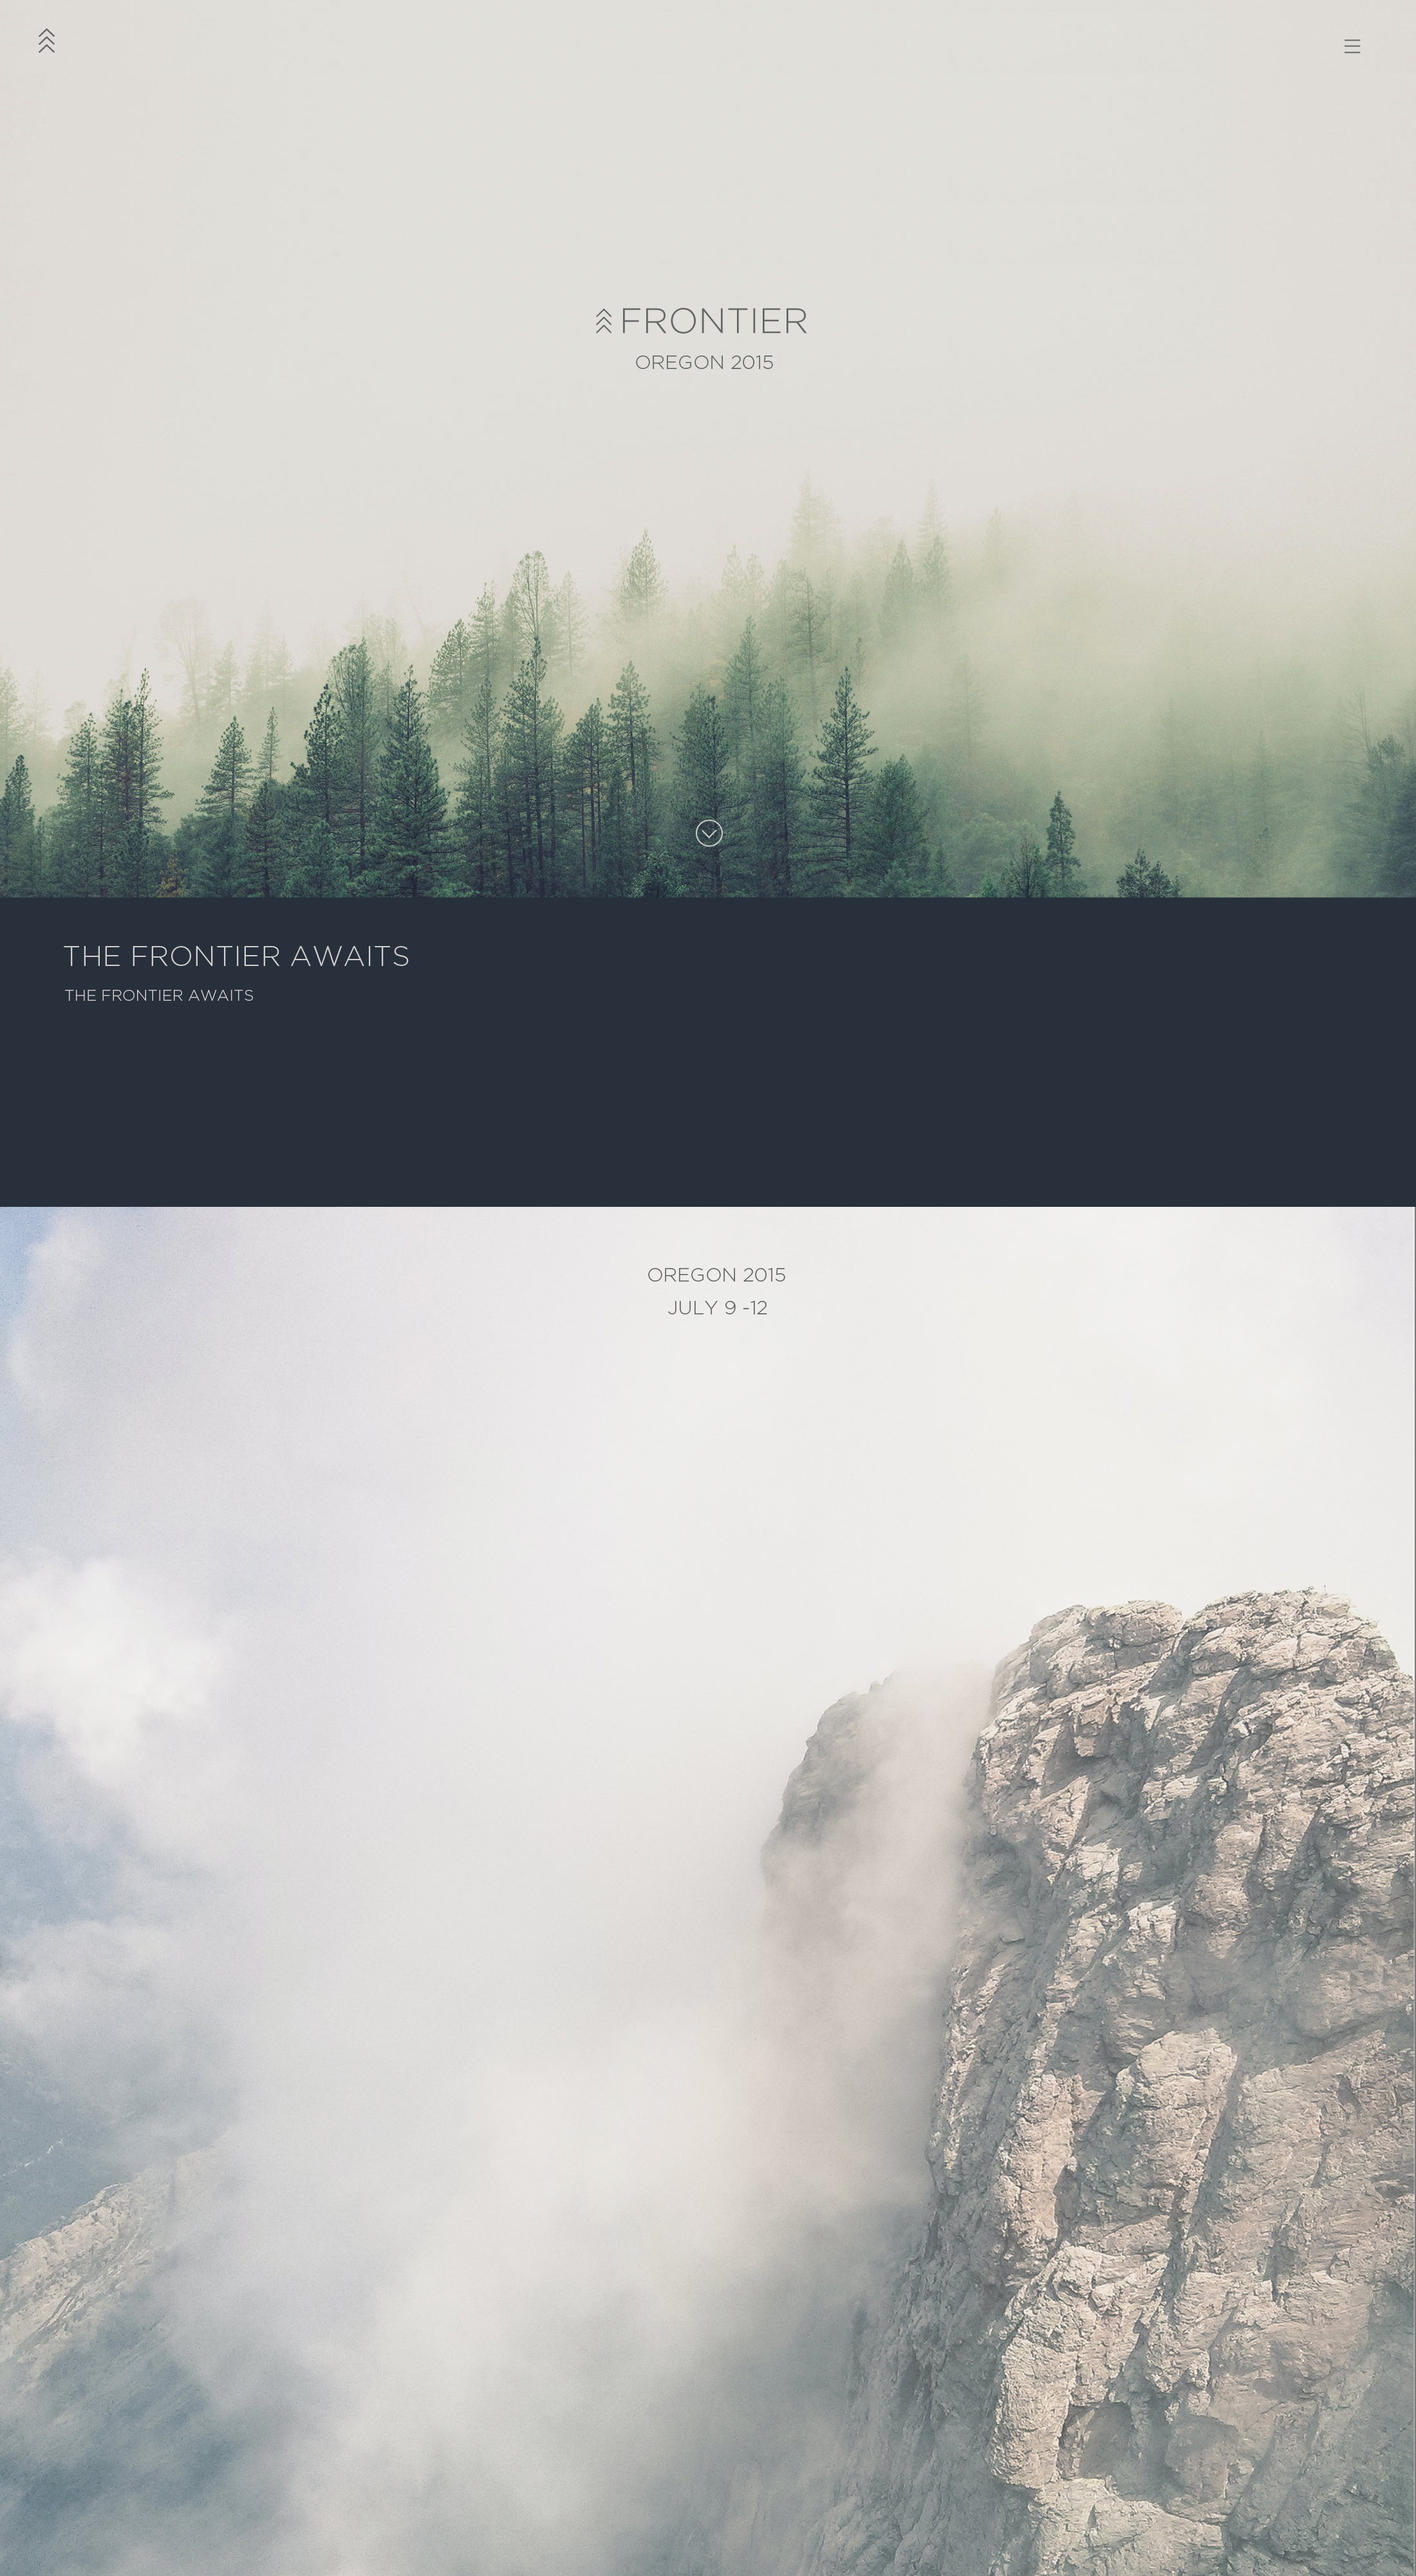
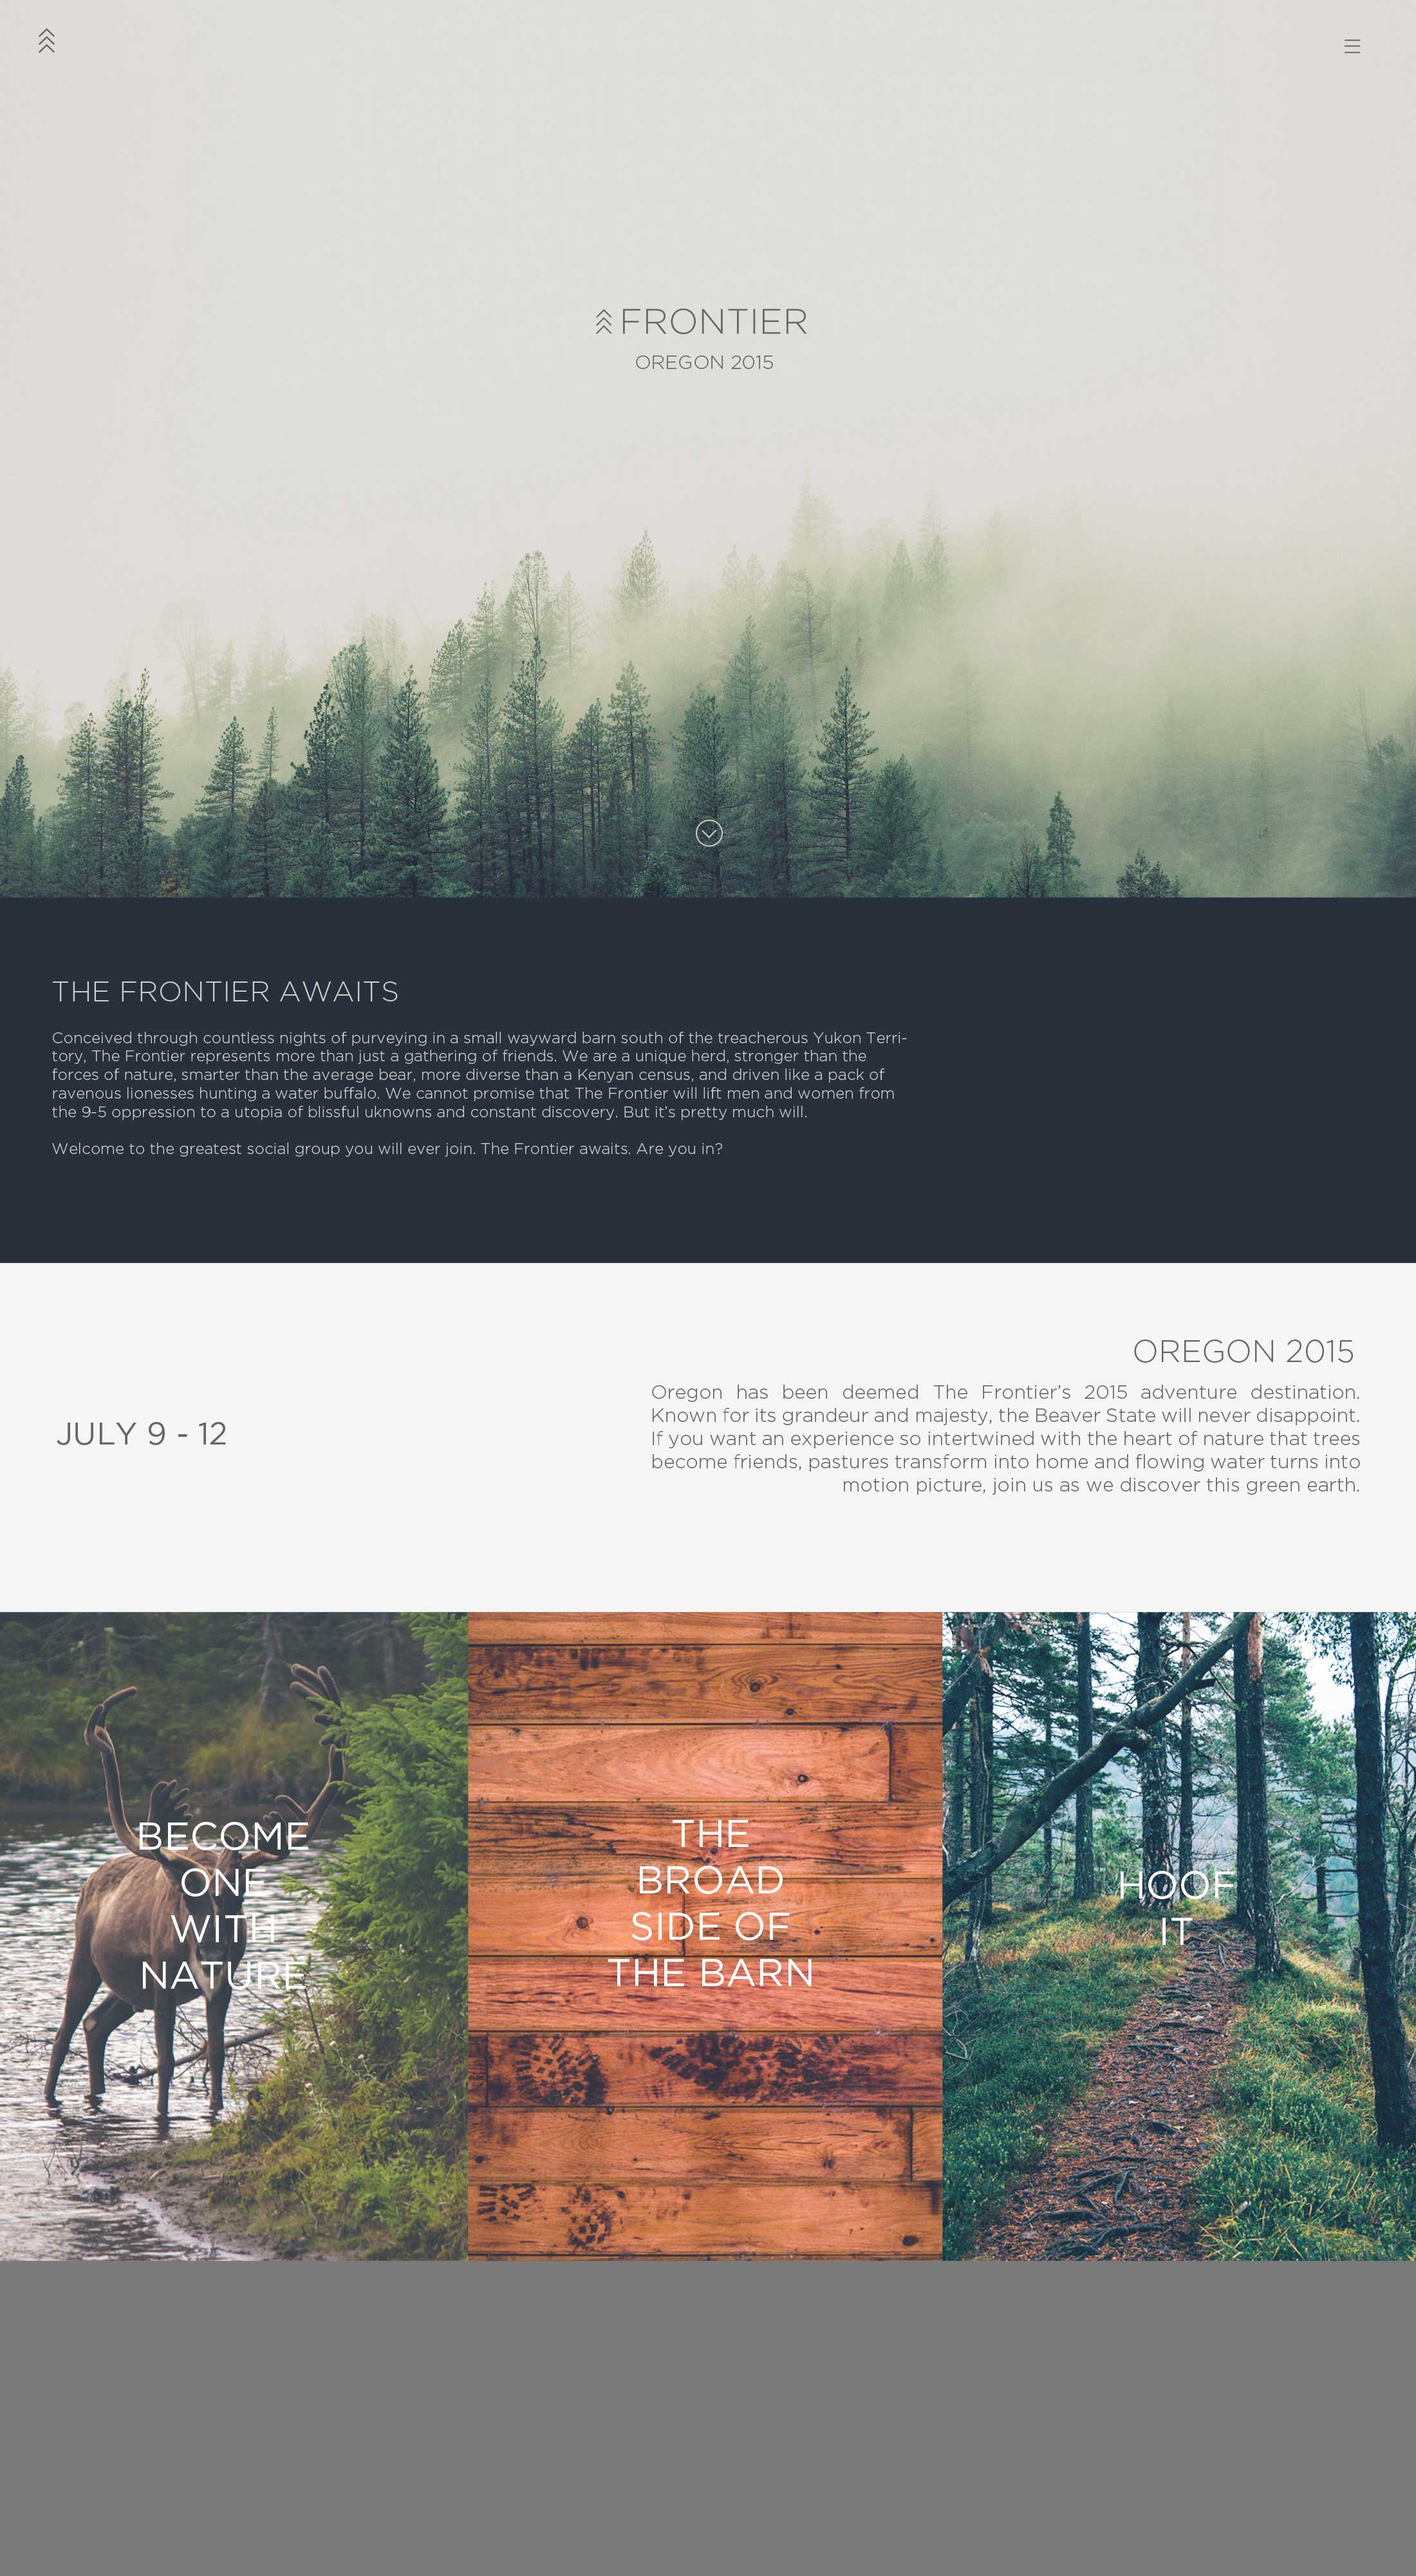
Updated to globalWindowX,Y
Use: engine.on to compute the screen size for every tick

diff --git a/client/app/views/dateTextView.js b/client/app/views/dateTextView.js
@@ -1,0 +1,110 @@
+var View 				= require('famous/core/View');
+var Surface 			= require('famous/core/Surface');
+var Transform 			= require('famous/core/Transform');
+var ImageSurface 		= require('famous/surfaces/ImageSurface');
+var Modifier 			= require('famous/core/Modifier');
+
+FrontierAwaitsView = function () {
+	View.apply(this, arguments);
+
+	this.viewModifier = new Modifier({
+	});
+
+	this.viewModifier.sizeFrom(function(){
+		return [ window.innerWidth, window.innerHeight/2];
+	});
+
+	this.viewNode = this.add(this.viewModifier);
+	/******************* Background Surface ************************/
+	this.backgroundSurface = new Surface({
+		properties:{
+			backgroundColor: "#28303B"
+			}
+	});
+
+	this.backgroundSurfaceMod = new Modifier({
+		size: [undefined, undefined]
+	});
+
+	// this.backgroundSurfaceMod.sizeFrom( function(){
+	// 	return screenSize();
+	// } );
+
+	this.viewNode.add(this.backgroundSurfaceMod).add(this.backgroundSurface);
+	this.backgroundSurface.pipe(this._eventOutput);
+	/******************************************************************/
+
+	/******************* Text Surfaces************************/
+	// ---------------- title ------------------
+	this.titleTextSurface = new Surface({
+		content: "THE FRONTIER AWAITS",
+		properties: {
+			color: "#646665",
+			backgroundColor: "blue",
+			fontSize: "1em",
+			fontFamily:"gothamHTF"
+		}
+	});
+
+	this.titleTextSurfaceMod = new Modifier({
+		transform: Transform.translate(0,0,1),
+		origin: [0.5, 0.5],
+		align: 	[0.5, 0.1],
+	});
+
+	this.titleTextSurfaceMod.sizeFrom( function(){
+		return [window.innerWidth, true];
+	});
+
+	this.viewNode.add(this.titleTextSurfaceMod).add(this.titleTextSurface);
+	this.titleTextSurface.pipe(this._eventOutput);
+
+	// ---------------- description ------------------
+	this.descriptionTextSurface = new Surface({
+		content: "Conceived through countless nights of purveying in a small wayward barn south of the treacherous Yukon Territory, The Frontier represents more than just a gathering of friends. We are a unique her, stronger than the forces of nature, smarter than the average bear, more divers that a Kenyan census, and drivel like a pack of ravenous lionesses hunting a water buffalo. We cannot promise that The Frontier will lift men and women from 9-5 oppression to a utopia of blissful unknowns and constant discovery. But it pretty much will. <p>Welcome to the greatest social group you will ever join. The Frontier awaits .Are you in?</p>",
+		properties: {
+			color: "#646665",
+			backgroundColor: "blue",
+			fontSize: "1em",
+			fontFamily:"gothamHTF"
+		}
+	});
+
+	this.descriptionTextSurfaceMod = new Modifier({
+		transform: Transform.translate(0,0,1),
+		origin: [0.0, 0.5],
+		align: 	[0.0, 0.5],
+	});
+
+	this.descriptionTextSurfaceMod.sizeFrom( function(){
+		return [window.innerWidth - 100, true];
+	});
+
+	this.viewNode.add(this.descriptionTextSurfaceMod).add(this.descriptionTextSurface);
+	this.descriptionTextSurface.pipe(this._eventOutput);
+
+	/******************* Pulldown arrow image ************************/
+	this.pullDownImage = new ImageSurface({
+		content:"/pictures/pulldown.png",
+		size: [50, true]
+	});
+
+	this.pullDownImageMod = new  Modifier({
+		origin: [0.5,1.0],
+		align: [0.5,0.95]
+	});
+
+	this.viewNode.add(this.pullDownImageMod).add(this.pullDownImage);
+	this.pullDownImage.pipe(this._eventOutput);
+
+	//var eventHandler = new EventHandler();
+	this.pullDownImage.on('click', function(event){
+		eventHandler.emit('pullDownClicked');
+	});
+	/******************************************************************/
+
+};
+
+FrontierAwaitsView.prototype = Object.create(View.prototype);
+FrontierAwaitsView.prototype.constructor = FrontierAwaitsView;
+FrontierAwaitsView.DEFAULT_OPTIONS = {};

diff --git a/client/app/views/DatesView.js b/client/app/views/DatesView.js
@@ -3,8 +3,9 @@ var Surface 			= require('famous/core/Surface');
 var Transform 			= require('famous/core/Transform');
 var ImageSurface 		= require('famous/surfaces/ImageSurface');
 var Modifier 			= require('famous/core/Modifier');
+var RenderController 	= require('famous/views/RenderController');
 
-EmptyView = function () {
+DatesView = function () {
 
 	/***************************** main view ***************************/
 	View.apply(this, arguments);
@@ -13,11 +14,14 @@ EmptyView = function () {
 	});
 	// size view to screen
 	this.viewModifier.sizeFrom(function(){
-		return [window.innerWidth, window.innerHeight/2];
+		// return [window.innerWidth, window.innerHeight/2];
+		return [globalWindowX, globalWindowY/determineTileHeight()];
 	});
 	// Attach modifier to view
 	this.viewNode = this.add(this.viewModifier);
 	/******************************************************************/
+
+	this.renderController = new RenderController();
 
 	/******************* Background Surface *****************************/
 	this.backgroundSurface = new Surface({
@@ -34,7 +38,7 @@ EmptyView = function () {
 	});
 
 
-	this.ViewewNode.add(this.backgroundMod).add(this.backgroundSurface);
+	this.viewNode.add(this.backgroundMod).add(this.backgroundSurface);
 	this.backgroundSurface.pipe(this._eventOutput);
 
 	// this.backgroundSurface.on('click', function(event){
@@ -42,10 +46,33 @@ EmptyView = function () {
 	// });
 	/******************************************************************/
 
+	/******************* Background Surface *****************************/
+
+	this.datesSurface = new Surface({
+		content:"JULY 9 - 12",
+		properties:{
+			fontFamily:"gothamHTF",
+			// backgroundColor:"green",
+			color: "#646665",
+			textAlign:"center",
+			fontSize:"1.5em"
+		}
+	});
+
+	this.datesSurfaceMod = new Modifier({
+		size:[150,50],
+		origin:[0,0.5],
+		align:[0.05,0.5],
+	});
+
+	this.viewNode.add(this.datesSurfaceMod).add(this.datesSurface);
+	this.datesSurface.pipe(this._eventOutput);
+
+	/******************************************************************/
 
 };
 
-EmptyView.prototype = Object.create(View.prototype);
-EmptyView.prototype.constructor = EmptyView;
+DatesView.prototype = Object.create(View.prototype);
+DatesView.prototype.constructor = DatesView;
 
-EmptyView.DEFAULT_OPTIONS = {};
+DatesView.DEFAULT_OPTIONS = {};

diff --git a/client/app/main.js b/client/app/main.js
@@ -1,13 +1,20 @@
 famous.polyfills;
 famous.core.famous;
 
-var mainContext = famous.core.Engine.createContext();
-var Scrollview = require('famous/views/Scrollview');
+
+var Engine 				= require('famous/core/Engine');
+var Scrollview 			= require('famous/views/Scrollview');
 var Surface 			= require('famous/core/Surface');
 var View 				= require('famous/core/View');
 var EventHandler 		= require('famous/core/EventHandler');
 var RenderController 	= require('famous/views/RenderController');
 
+var mainContext = Engine.createContext();
+
+
+Engine.on('resize', function(){
+	updateWindowSize();
+});
 
 /* Create and array for the slide tiles */
 var tiles = [];
@@ -18,7 +25,7 @@ scroll = new Scrollview({
 	// pageStopSpeed: 0.1,
 	//drag: 10,
 
-	pageDamp: 2,
+	//pageDamp: 2,
 });
 
 scroll.sequenceFrom(tiles);
@@ -41,6 +48,11 @@ scroll.subscribe(titleView);
 var frontierAwaitsView = new FrontierAwaitsView();
 tiles.push(frontierAwaitsView);
 scroll.subscribe(frontierAwaitsView);
+
+/* Third Slide - Dates */
+var datesView = new DatesView();
+tiles.push(datesView);
+scroll.subscribe(datesView);
 
 
 /* Third Slide - Mist rocks */
@@ -70,6 +82,10 @@ eventHandler.on('pullDownClicked', function(){
 
 eventHandler.on('returnToTopClicked', function(){
 	scroll.goToPage(0);
+});
+
+eventHandler.on('tile2', function(){
+	console.log('tile2');
 });
 
 eventHandler.on('toggleDrawer',function(){

diff --git a/client/app/helpers/imageSizing.js b/client/app/helpers/imageSizing.js
@@ -1,12 +1,22 @@
+globalWindowX=100;
+globalWindowY=100;
+globalAspectRatio=1;
+
+updateWindowSize = function(){
+	globalWindowY = window.innerHeight;
+	globalWindowX = window.innerWidth;
+	globalAspectRatio = globalWindowX/globalWindowY;
+};
+
 dynamicScale= function(imageX, imageY) {	
 // function dynamicScale(imageX, imageY){
 	/* Image size in pixels */
 	var imageAspect = imageX/imageY;
 
-	/* User's screen size in pixels */
-	var windowX = window.innerWidth * 1.0;
-	var windowY = window.innerHeight * 1.0;
-	var windowAspect = (windowX/windowY);
+	// /* User's screen size in pixels */
+	var windowX = globalWindowX;
+	var windowY = globalWindowY;
+	var windowAspect = globalAspectRatio;
 
 	/* return values */
 	var width;
@@ -26,11 +36,22 @@ dynamicScale= function(imageX, imageY) {
 		height = windowY;
 
 	}
-
 	return [width, height];
-
 };
 
+// Used for determining the size of the balck and white tiles 
+determineTileHeight =function(){
+
+	if (globalAspectRatio >=1){
+		//console.log(globalWindowY);
+		//eventHandler.emit("tile2");
+		return 2;
+	}
+
+	else{
+		return 1;
+	}
+};
 
 screenSize = function(){
 	return [window.innerWidth, window.innerHeight];

diff --git a/client/app/views/titleView.js b/client/app/views/titleView.js
@@ -11,10 +11,12 @@ TitleView =function() {
 	});
 
 	this.viewModifier.sizeFrom(function(){
-		return [window.innerWidth, window.innerHeight];
+		return [globalWindowX, globalWindowY];
 	});
 
 	this.viewNode = this.add(this.viewModifier);
+
+	
 	/******************* Background image ************************/
 	this.backgroundImage = new ImageSurface({
 		content:"/pictures/forest-landscape.jpeg",

diff --git a/client/app/main.html b/client/app/main.html
@@ -1,5 +1,3 @@
-
-
 <head>
 	<meta content='width=device-width, initial-scale=1.0, maximum-scale=1.0, user-scalable=0' name='viewport' />
 	<title>Frontier 2015</title>
